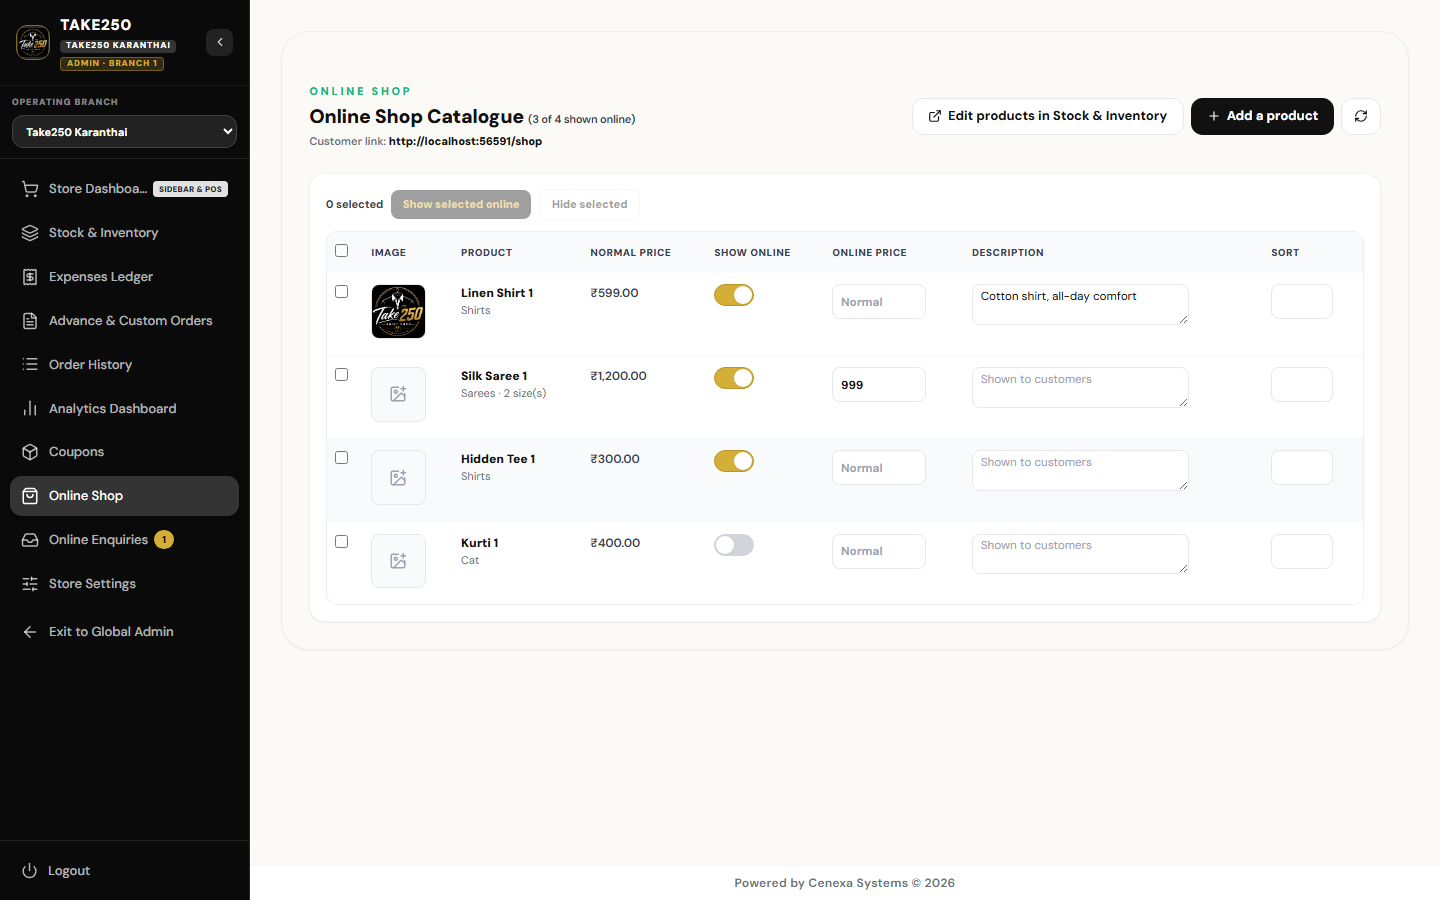
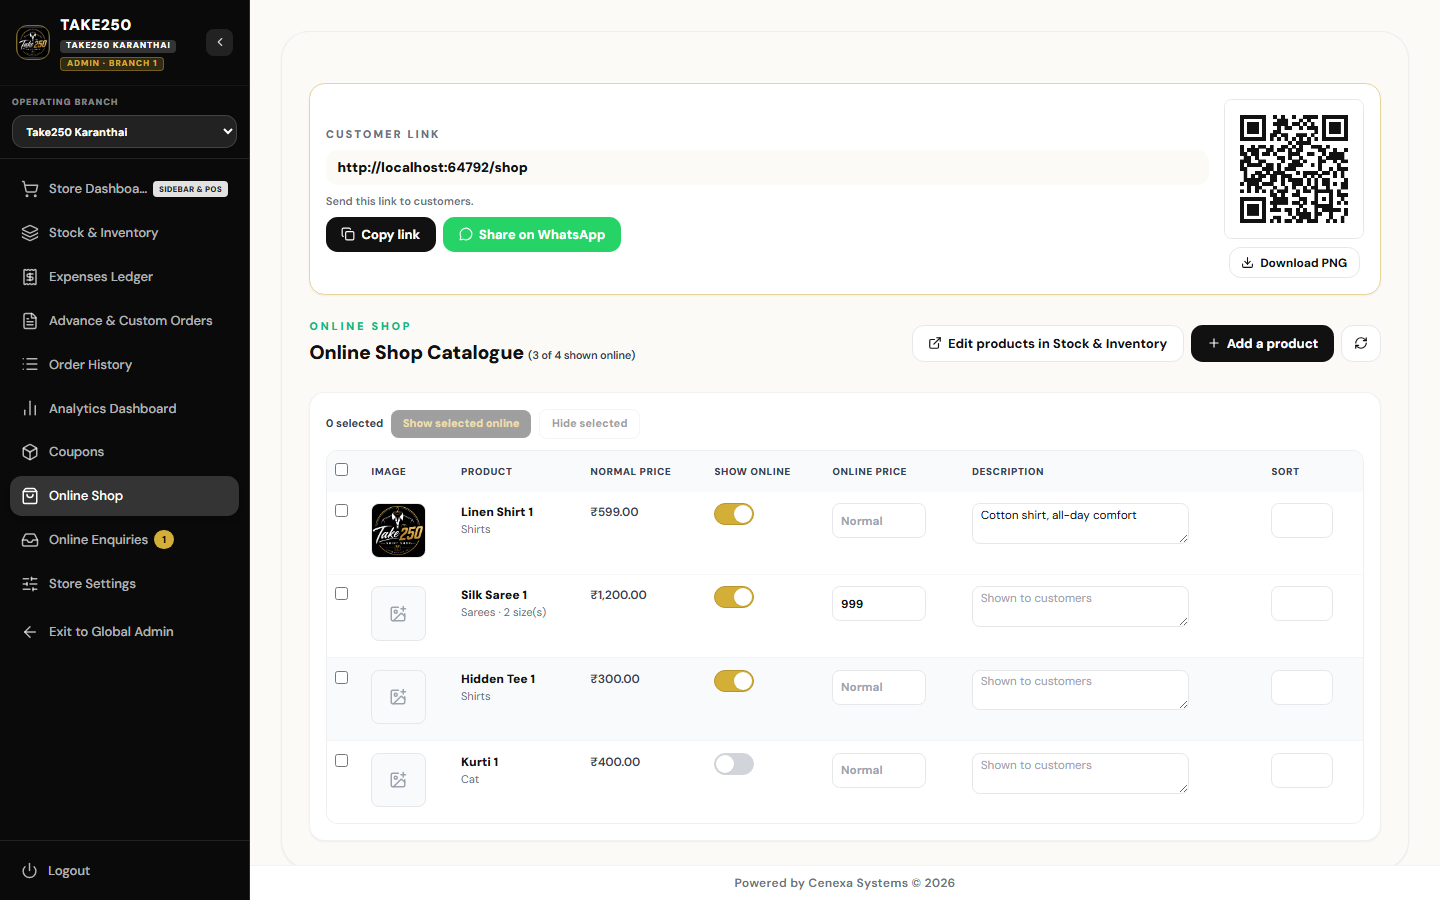
online shop: copy/share link and QR
- Admin "Online Shop" screen: customer link card at the top, built from
  window.location.origin + /shop (always ends with /shop on preview,
  production and local), "Copy link", "Share on WhatsApp" (wa.me/?text=),
  hint "Send this link to customers.", QR code (canvas) with "Download PNG".
- qrcode-generator (small, no dependencies) for the QR matrix.
- Tests: shopLink/whatsappShareUrl unit checks in test-api part 8.

diff --git a/src/components/shop/ShopLinkCard.tsx b/src/components/shop/ShopLinkCard.tsx
@@ -1,0 +1,85 @@
+import { useEffect, useMemo, useRef, useState } from 'react'
+import { Check, Copy, Download, MessageCircle } from 'lucide-react'
+import qrcode from 'qrcode-generator'
+import { shopLink, whatsappShareUrl } from '../../lib/shopLink'
+
+const QR_PX = 640 // drawn large, shown small: the downloaded PNG stays sharp when printed
+
+/** Top of the Admin "Online Shop" screen: the customer link, copy / WhatsApp share, and a QR code to download. */
+export default function ShopLinkCard() {
+  const link = useMemo(() => shopLink(window.location.origin), [])
+  const canvasRef = useRef<HTMLCanvasElement>(null)
+  const [copied, setCopied] = useState(false)
+
+  useEffect(() => {
+    const canvas = canvasRef.current
+    const ctx = canvas?.getContext('2d')
+    if (!canvas || !ctx) return
+    const qr = qrcode(0, 'M')
+    qr.addData(link)
+    qr.make()
+    const n = qr.getModuleCount()
+    const quiet = 4 // modules of white border so phone cameras read it
+    const cell = QR_PX / (n + quiet * 2)
+    ctx.fillStyle = '#FFFFFF'
+    ctx.fillRect(0, 0, QR_PX, QR_PX)
+    ctx.fillStyle = '#111111'
+    for (let r = 0; r < n; r++) {
+      for (let c = 0; c < n; c++) {
+        if (qr.isDark(r, c)) ctx.fillRect(Math.floor((c + quiet) * cell), Math.floor((r + quiet) * cell), Math.ceil(cell), Math.ceil(cell))
+      }
+    }
+  }, [link])
+
+  const copy = async () => {
+    try {
+      await navigator.clipboard.writeText(link)
+    } catch {
+      // older browsers / no clipboard permission
+      const ta = document.createElement('textarea')
+      ta.value = link
+      document.body.appendChild(ta)
+      ta.select()
+      document.execCommand('copy')
+      ta.remove()
+    }
+    setCopied(true)
+    window.setTimeout(() => setCopied(false), 2000)
+  }
+
+  const downloadPng = () => {
+    canvasRef.current?.toBlob((blob) => {
+      if (!blob) return
+      const url = URL.createObjectURL(blob)
+      const a = document.createElement('a')
+      a.href = url
+      a.download = 'take250-shop-qr.png'
+      a.click()
+      window.setTimeout(() => URL.revokeObjectURL(url), 1000)
+    }, 'image/png')
+  }
+
+  return (
+    <div className="flex flex-col gap-4 rounded-2xl border border-[#E8D399] bg-white p-3 sm:flex-row sm:items-center sm:p-4 shadow-sm" data-testid="shop-link-card">
+      <div className="min-w-0 flex-1 space-y-2">
+        <p className="text-[11px] font-black uppercase tracking-[0.18em] text-[#6B7280]">Customer link</p>
+        <p className="break-all rounded-xl bg-[#FBFAF6] px-3 py-2 text-sm font-black text-[#111111]" data-testid="shop-link">{link}</p>
+        <p className="text-[11px] font-semibold text-[#6B7280]">Send this link to customers.</p>
+        <div className="flex flex-wrap gap-2">
+          <button type="button" onClick={() => void copy()} className="inline-flex items-center gap-1.5 rounded-xl bg-[#111111] px-4 py-2 text-[13px] font-bold text-white cursor-pointer" data-testid="shop-link-copy">
+            {copied ? <Check size={14} /> : <Copy size={14} />} {copied ? 'Copied' : 'Copy link'}
+          </button>
+          <a href={whatsappShareUrl(link)} target="_blank" rel="noopener noreferrer" className="inline-flex items-center gap-1.5 rounded-xl bg-[#25D366] px-4 py-2 text-[13px] font-bold text-white" data-testid="shop-link-whatsapp">
+            <MessageCircle size={14} /> Share on WhatsApp
+          </a>
+        </div>
+      </div>
+      <div className="flex shrink-0 flex-col items-center gap-2">
+        <canvas ref={canvasRef} width={QR_PX} height={QR_PX} className="h-36 w-36 rounded-lg border border-[#E5E7EB]" aria-label={`QR code for ${link}`} role="img" data-testid="shop-link-qr" />
+        <button type="button" onClick={downloadPng} className="inline-flex items-center gap-1.5 rounded-xl border border-[#E5E7EB] bg-white px-3 py-1.5 text-[12px] font-bold text-[#111111] cursor-pointer" data-testid="shop-link-qr-download">
+          <Download size={13} /> Download PNG
+        </button>
+      </div>
+    </div>
+  )
+}

diff --git a/scripts/lib/shopSuite.ts b/scripts/lib/shopSuite.ts
@@ -2,6 +2,7 @@
 // (TEST database, inside its rolled-back transaction) and by the in-memory-Postgres harness. Every check runs per branch.
 import type { Actor, ReturnsCtx } from './returnsSuite'
 import { csvCell } from '../../src/lib/csvCell'
+import { shopLink, whatsappShareUrl } from '../../src/lib/shopLink'
 
 export type ShopCtx = Omit<ReturnsCtx, 'concurrent'>
 type CallOpts = { cookie?: string; body?: unknown; query?: Record<string, string>; ip?: string }
@@ -160,6 +161,14 @@ export async function shopSuite(c: ShopCtx) {
       first = false
       check(csvCell('=HYPERLINK("http://x")').startsWith(`"'=`) && csvCell('+1').startsWith(`"'+`) && csvCell('-2').startsWith(`"'-`) && csvCell('@SUM(A1)').startsWith(`"'@`) && csvCell('Ravi') === '"Ravi"',
         'shop: CSV cells starting with = + - @ are neutralised')
+      // the customer link (copy / WhatsApp / QR) is built from the open address and always ends with /shop
+      const origins = ['https://take250.vercel.app', 'https://take250-git-feature-x-team.vercel.app/', 'http://localhost:5173', 'https://take250.in/dashboard?tab=online_shop#x']
+      const links = origins.map(shopLink)
+      check(links.every((l) => l.endsWith('/shop') && !l.includes('//shop') && !/[?#]/.test(l)) && links[0] === 'https://take250.vercel.app/shop' && links[1] === 'https://take250-git-feature-x-team.vercel.app/shop' && links[3] === 'https://take250.in/shop',
+        'shop: the copied link is <origin>/shop on production, preview and local addresses', links.join(' '))
+      const wa = whatsappShareUrl(links[0])
+      check(wa === 'https://wa.me/?text=https%3A%2F%2Ftake250.vercel.app%2Fshop' && decodeURIComponent(new URL(wa).searchParams.get('text') || '').endsWith('/shop'),
+        'shop: the WhatsApp share link carries the encoded /shop link', wa)
       await q(`SAVEPOINT shop_new_branch`)
       let counter: any = null
       try {

diff --git a/src/components/shop/OnlineCatalogue.tsx b/src/components/shop/OnlineCatalogue.tsx
@@ -4,6 +4,7 @@ import { api } from '../../lib/apiClient'
 import { formatCurrency } from '../../lib/retail'
 import { uploadProductImage } from '../../lib/storage'
 import Toggle from '../common/Toggle'
+import ShopLinkCard from './ShopLinkCard'
 import type { PosBranch } from '../../store/store'
 
 type Row = {
@@ -63,11 +64,11 @@ export default function OnlineCatalogue({ branch, onOpenInventory }: { branch: P
   return (
     <div className="space-y-4 sm:space-y-6 rounded-[20px] sm:rounded-[28px] border border-[#E5E7EB]/60 bg-[#FBFAF6] p-3 sm:p-6 lg:p-7 shadow-sm" data-testid="online-catalogue">
       <input ref={fileRef} type="file" accept="image/*" className="hidden" onChange={(e) => void onFile(e.target.files?.[0])} />
+      <ShopLinkCard />
       <div className="flex flex-wrap items-center justify-between gap-3">
         <div>
           <p className="text-[11px] font-black uppercase tracking-[0.24em] text-[#10B981]">Online shop</p>
           <h2 className="mt-1 text-xl font-black text-[#111111]">Online Shop Catalogue <span className="text-[11px] font-semibold text-[#374151]">({shownCount} of {rows.length} shown online)</span></h2>
-          <p className="text-[11px] font-semibold text-[#6B7280]">Customer link: <span className="font-black text-[#111111]">{window.location.origin}/shop</span></p>
         </div>
         <div className="flex flex-wrap gap-2">
           <button type="button" onClick={onOpenInventory} className="inline-flex items-center gap-1.5 rounded-xl border border-[#E5E7EB] bg-white px-4 py-2 text-[13px] font-bold text-[#111111] cursor-pointer" data-testid="open-inventory"><ExternalLink size={14} /> Edit products in Stock &amp; Inventory</button>

diff --git a/src/lib/shopLink.ts b/src/lib/shopLink.ts
@@ -1,0 +1,16 @@
+/**
+ * The customer link of the online shop, always built from the address the Admin has open (preview or production),
+ * never typed by hand. Whatever page or path the origin string carries, the result is `<origin>/shop`.
+ */
+export function shopLink(origin: string): string {
+  let base: string
+  try {
+    base = new URL(origin).origin
+  } catch {
+    base = origin.replace(/[?#].*$/, '').replace(/\/+$/, '')
+  }
+  return `${base}/shop`
+}
+
+/** WhatsApp share (the Admin picks the chat); the message is just the link. */
+export const whatsappShareUrl = (link: string): string => `https://wa.me/?text=${encodeURIComponent(link)}`
